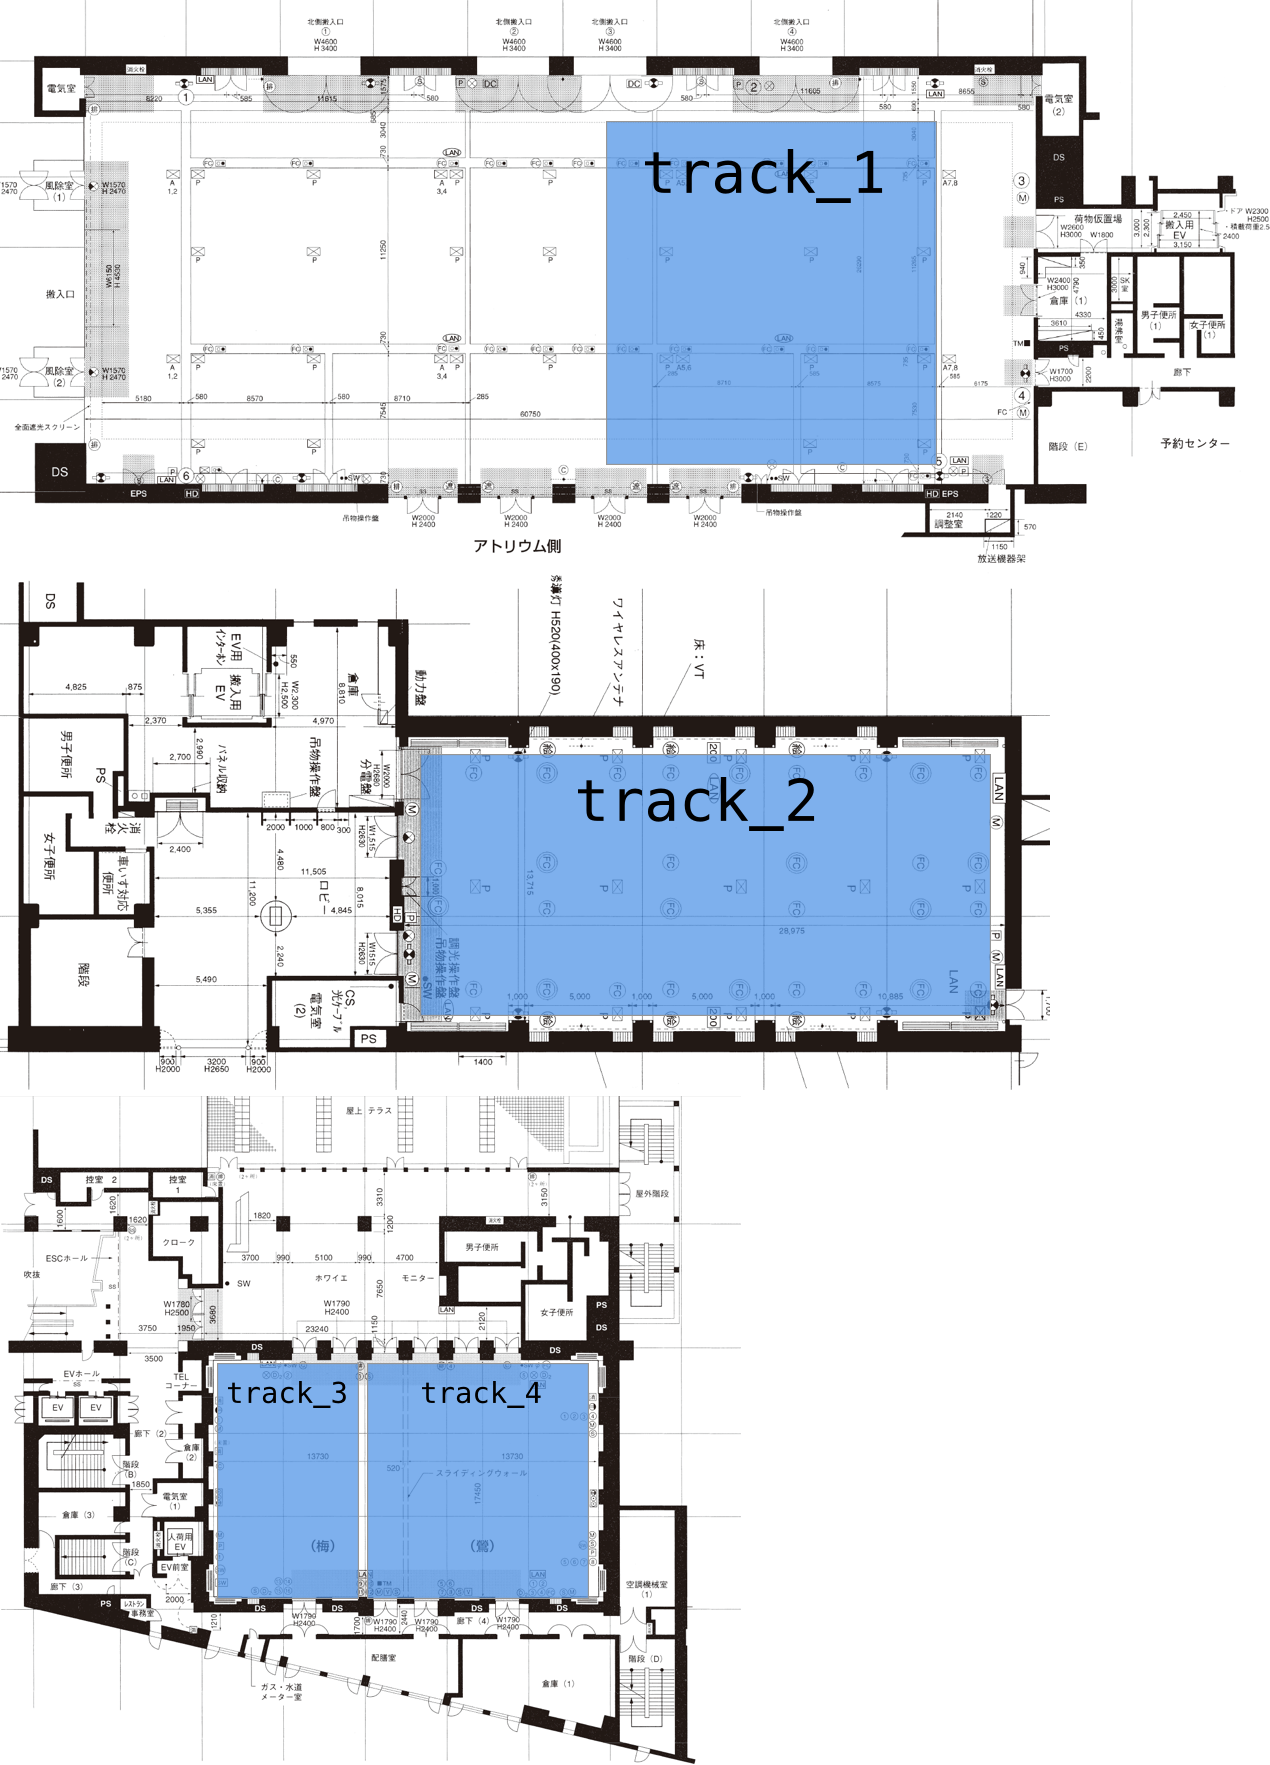
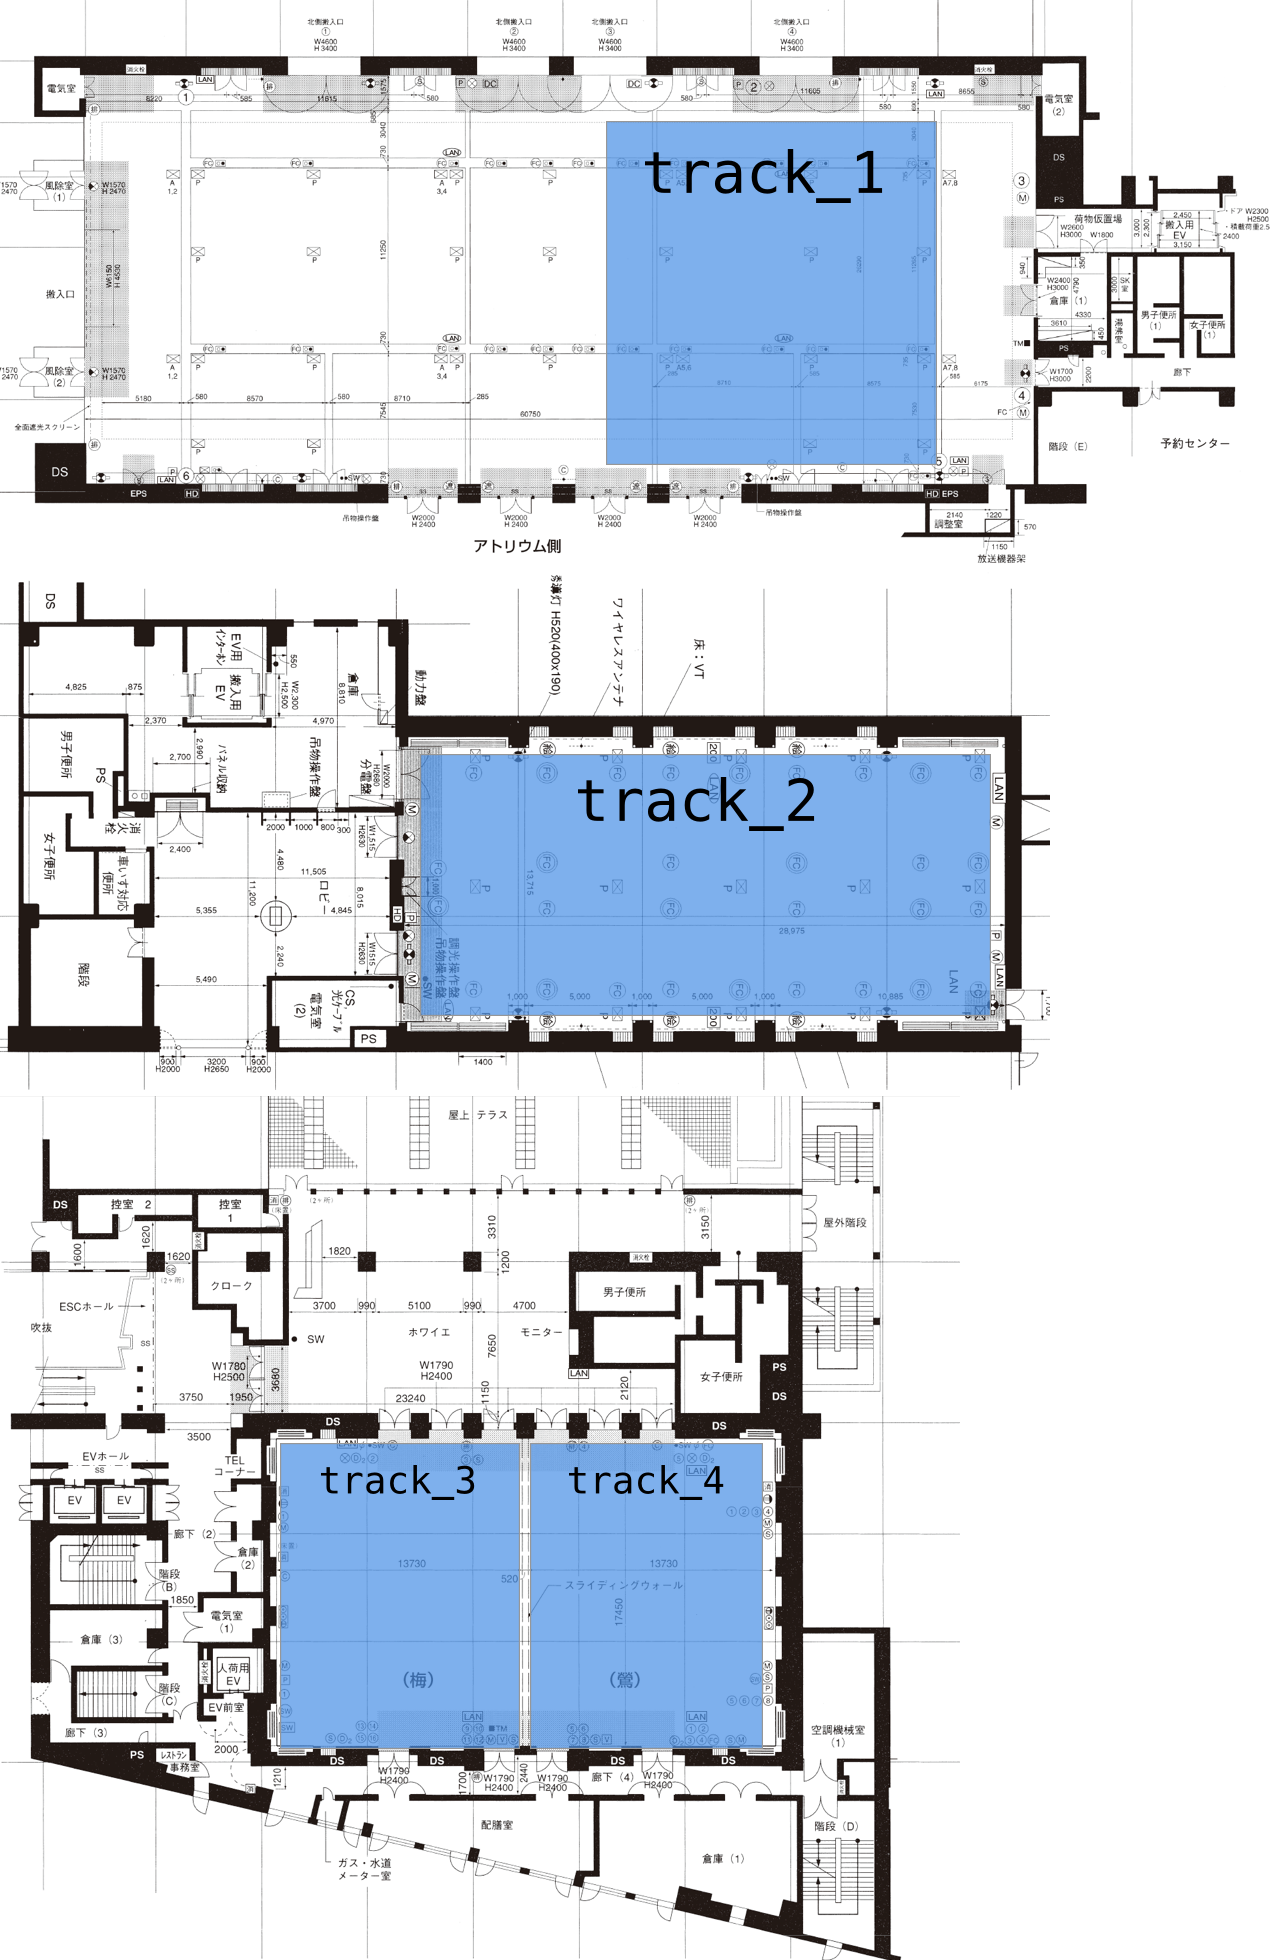
adjust map scale

Changed region(s): [[0.0, 0.0, 1.0, 1.0]]

diff --git a/public/phpcon2015/js/app.js b/public/phpcon2015/js/app.js
@@ -61,25 +61,25 @@
     }];
   var track_3 = [{
       place: "AP-020",
-      points: [{x: 230, y: 1580}],
+      points: [{x: 310, y: 1700}],
       max: 200 * 1.0 / 3
     },{
       place: "AP-022",
-      points: [{x: 250, y: 1400}]
+      points: [{x: 310, y: 1490}]
     },{
       place: "AP-111",
-      points: [{x: 360, y: 1580}]
+      points: [{x: 490, y: 1700}]
     }];
   var track_4 = [{
       place: "AP-021",
-      points: [{x: 570, y: 1580}],
+      points: [{x: 740, y: 1700}],
       max: 200 * 1.0 / 3
     },{
       place: "AP-023",
-      points: [{x: 570, y: 1400}],
+      points: [{x: 740, y: 1490}],
     },{
       place: "AP-112",
-      points: [{x: 430, y: 1400}]
+      points: [{x: 570, y: 1490}]
     }];
   var foodcoat = [{
       place: "AP-004",
@@ -121,14 +121,14 @@
     }];
   var lobby_4f = [{
       place: "AP-024",
-      points: [{x: 270, y: 1260}],
+      points: [{x: 330, y: 1310}],
       max: 40 / 3
     },{
       place: "AP-025",
-      points: [{x: 370, y: 1190}]
+      points: [{x: 460, y: 1230}]
     },{
       place: "AP-026",
-      points: [{x: 430, y: 1270}]
+      points: [{x: 530, y: 1330}]
     }];
 
   function getDataPoints(track) {
